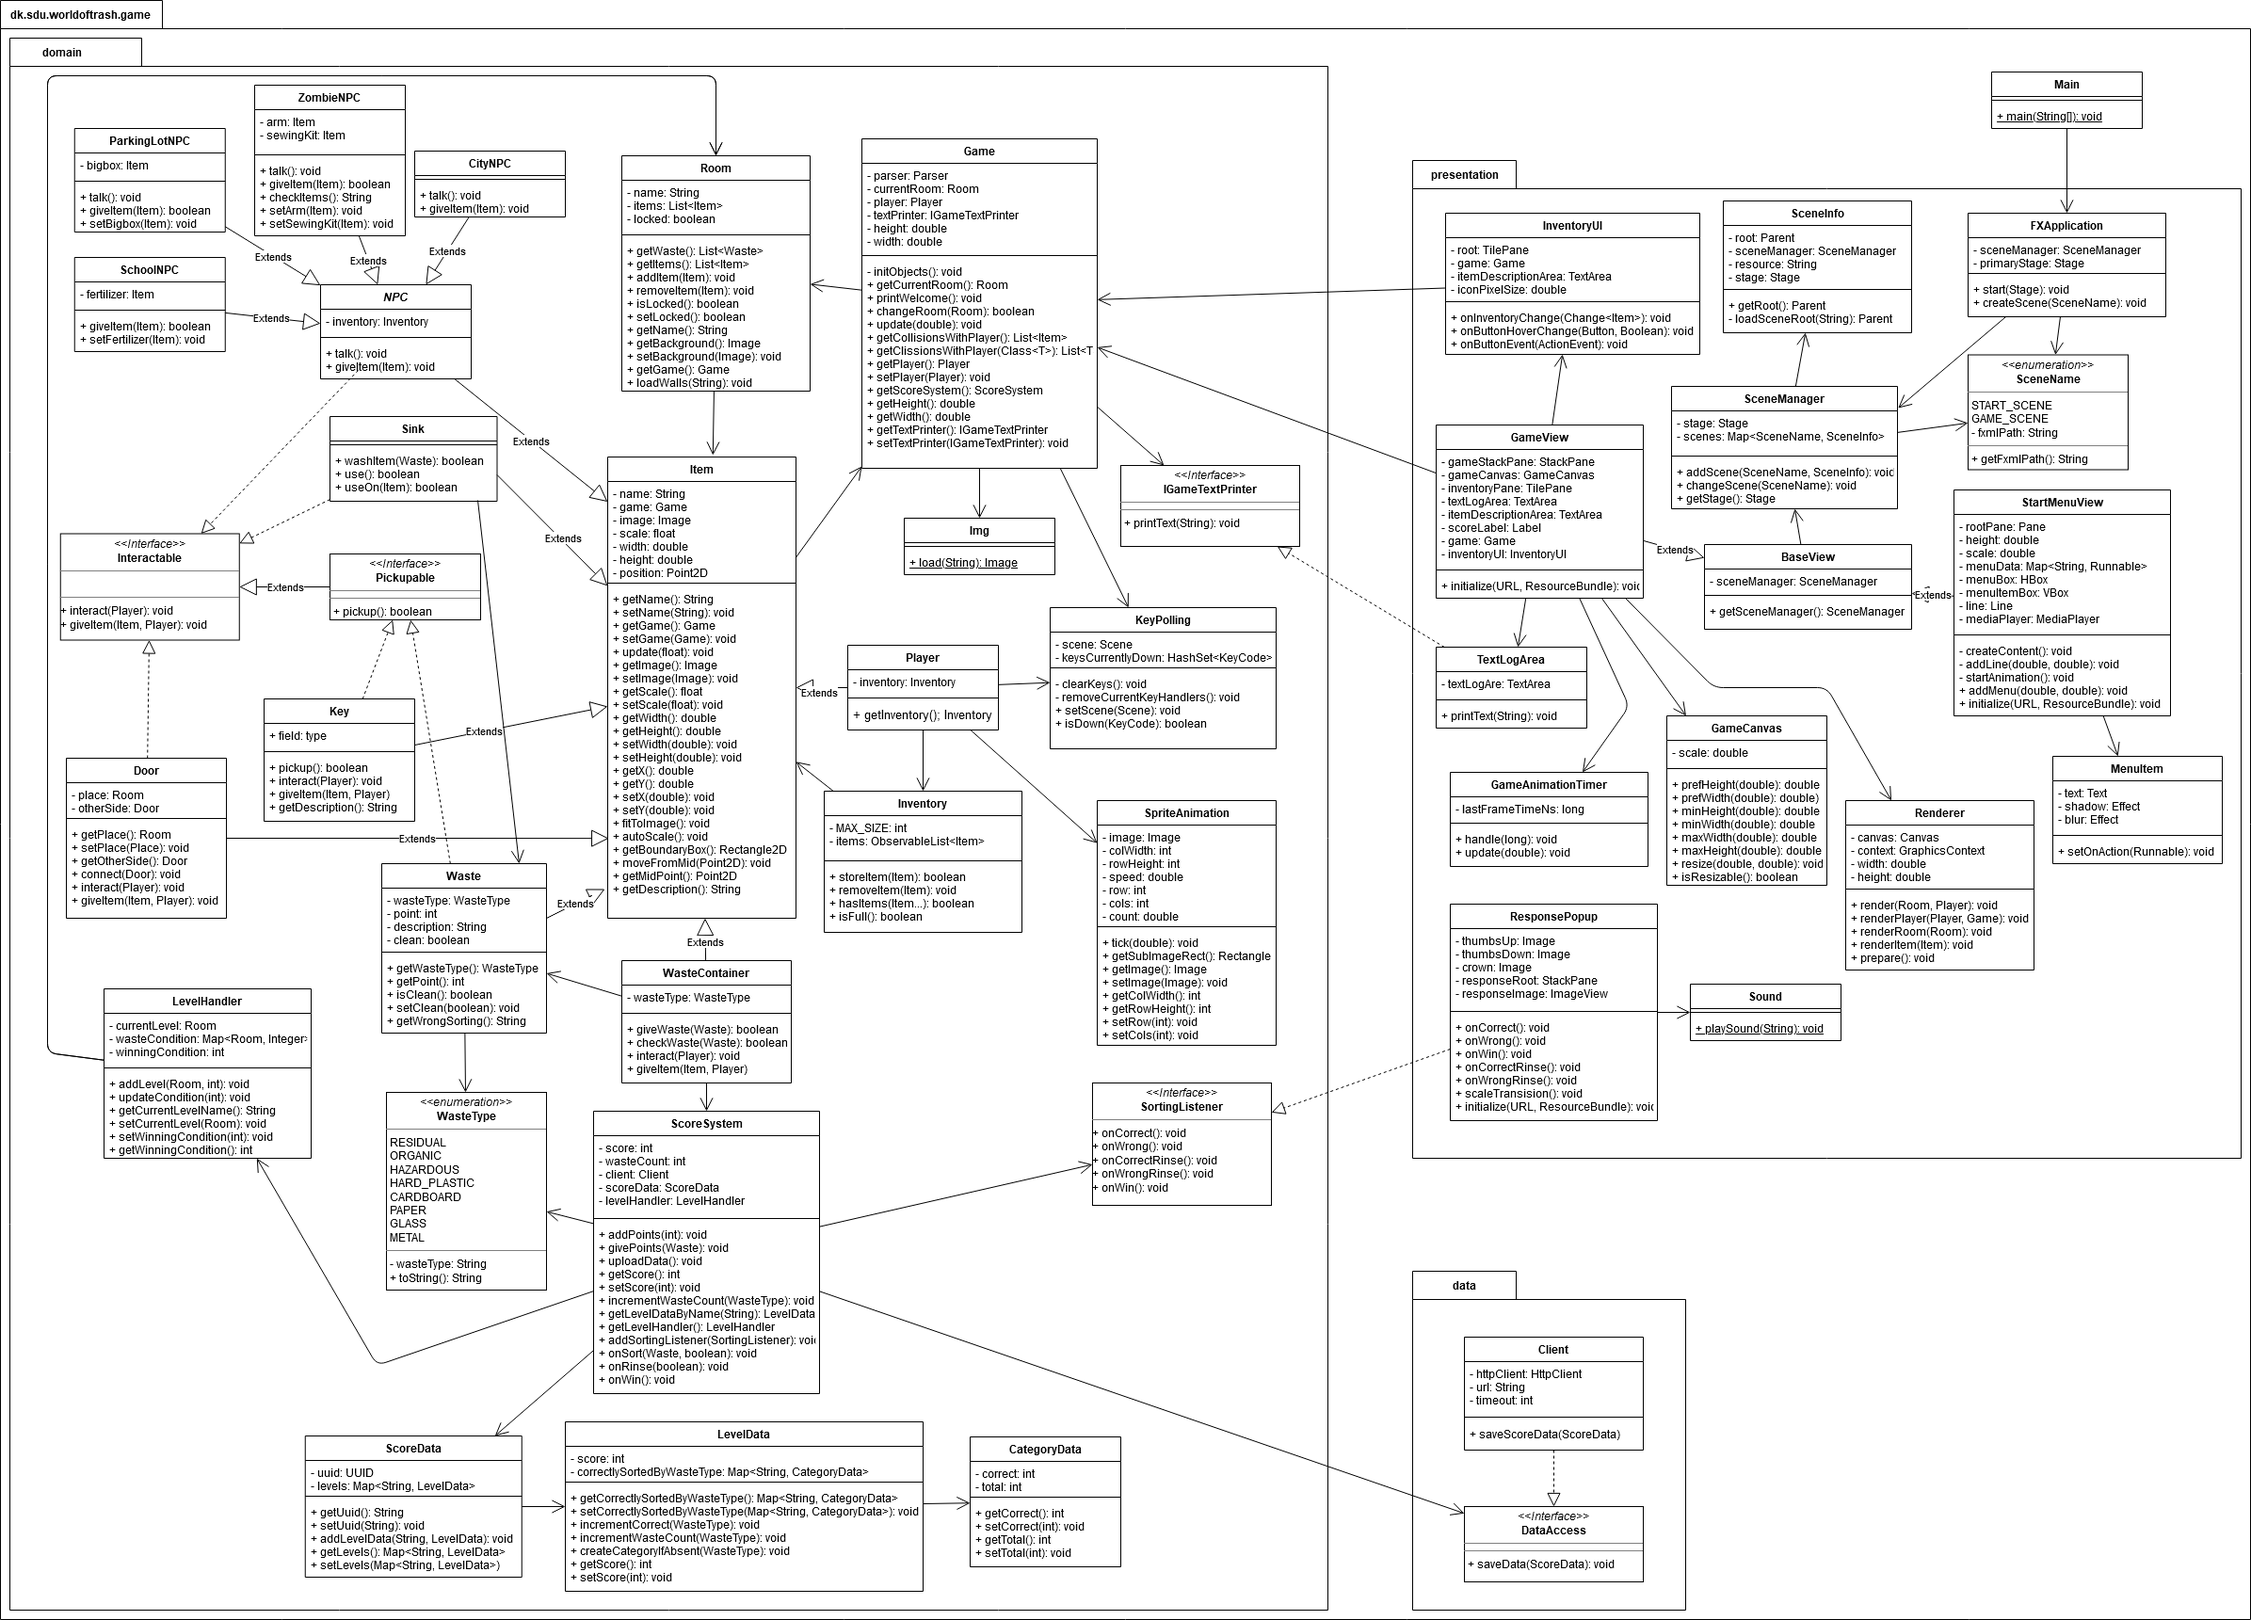
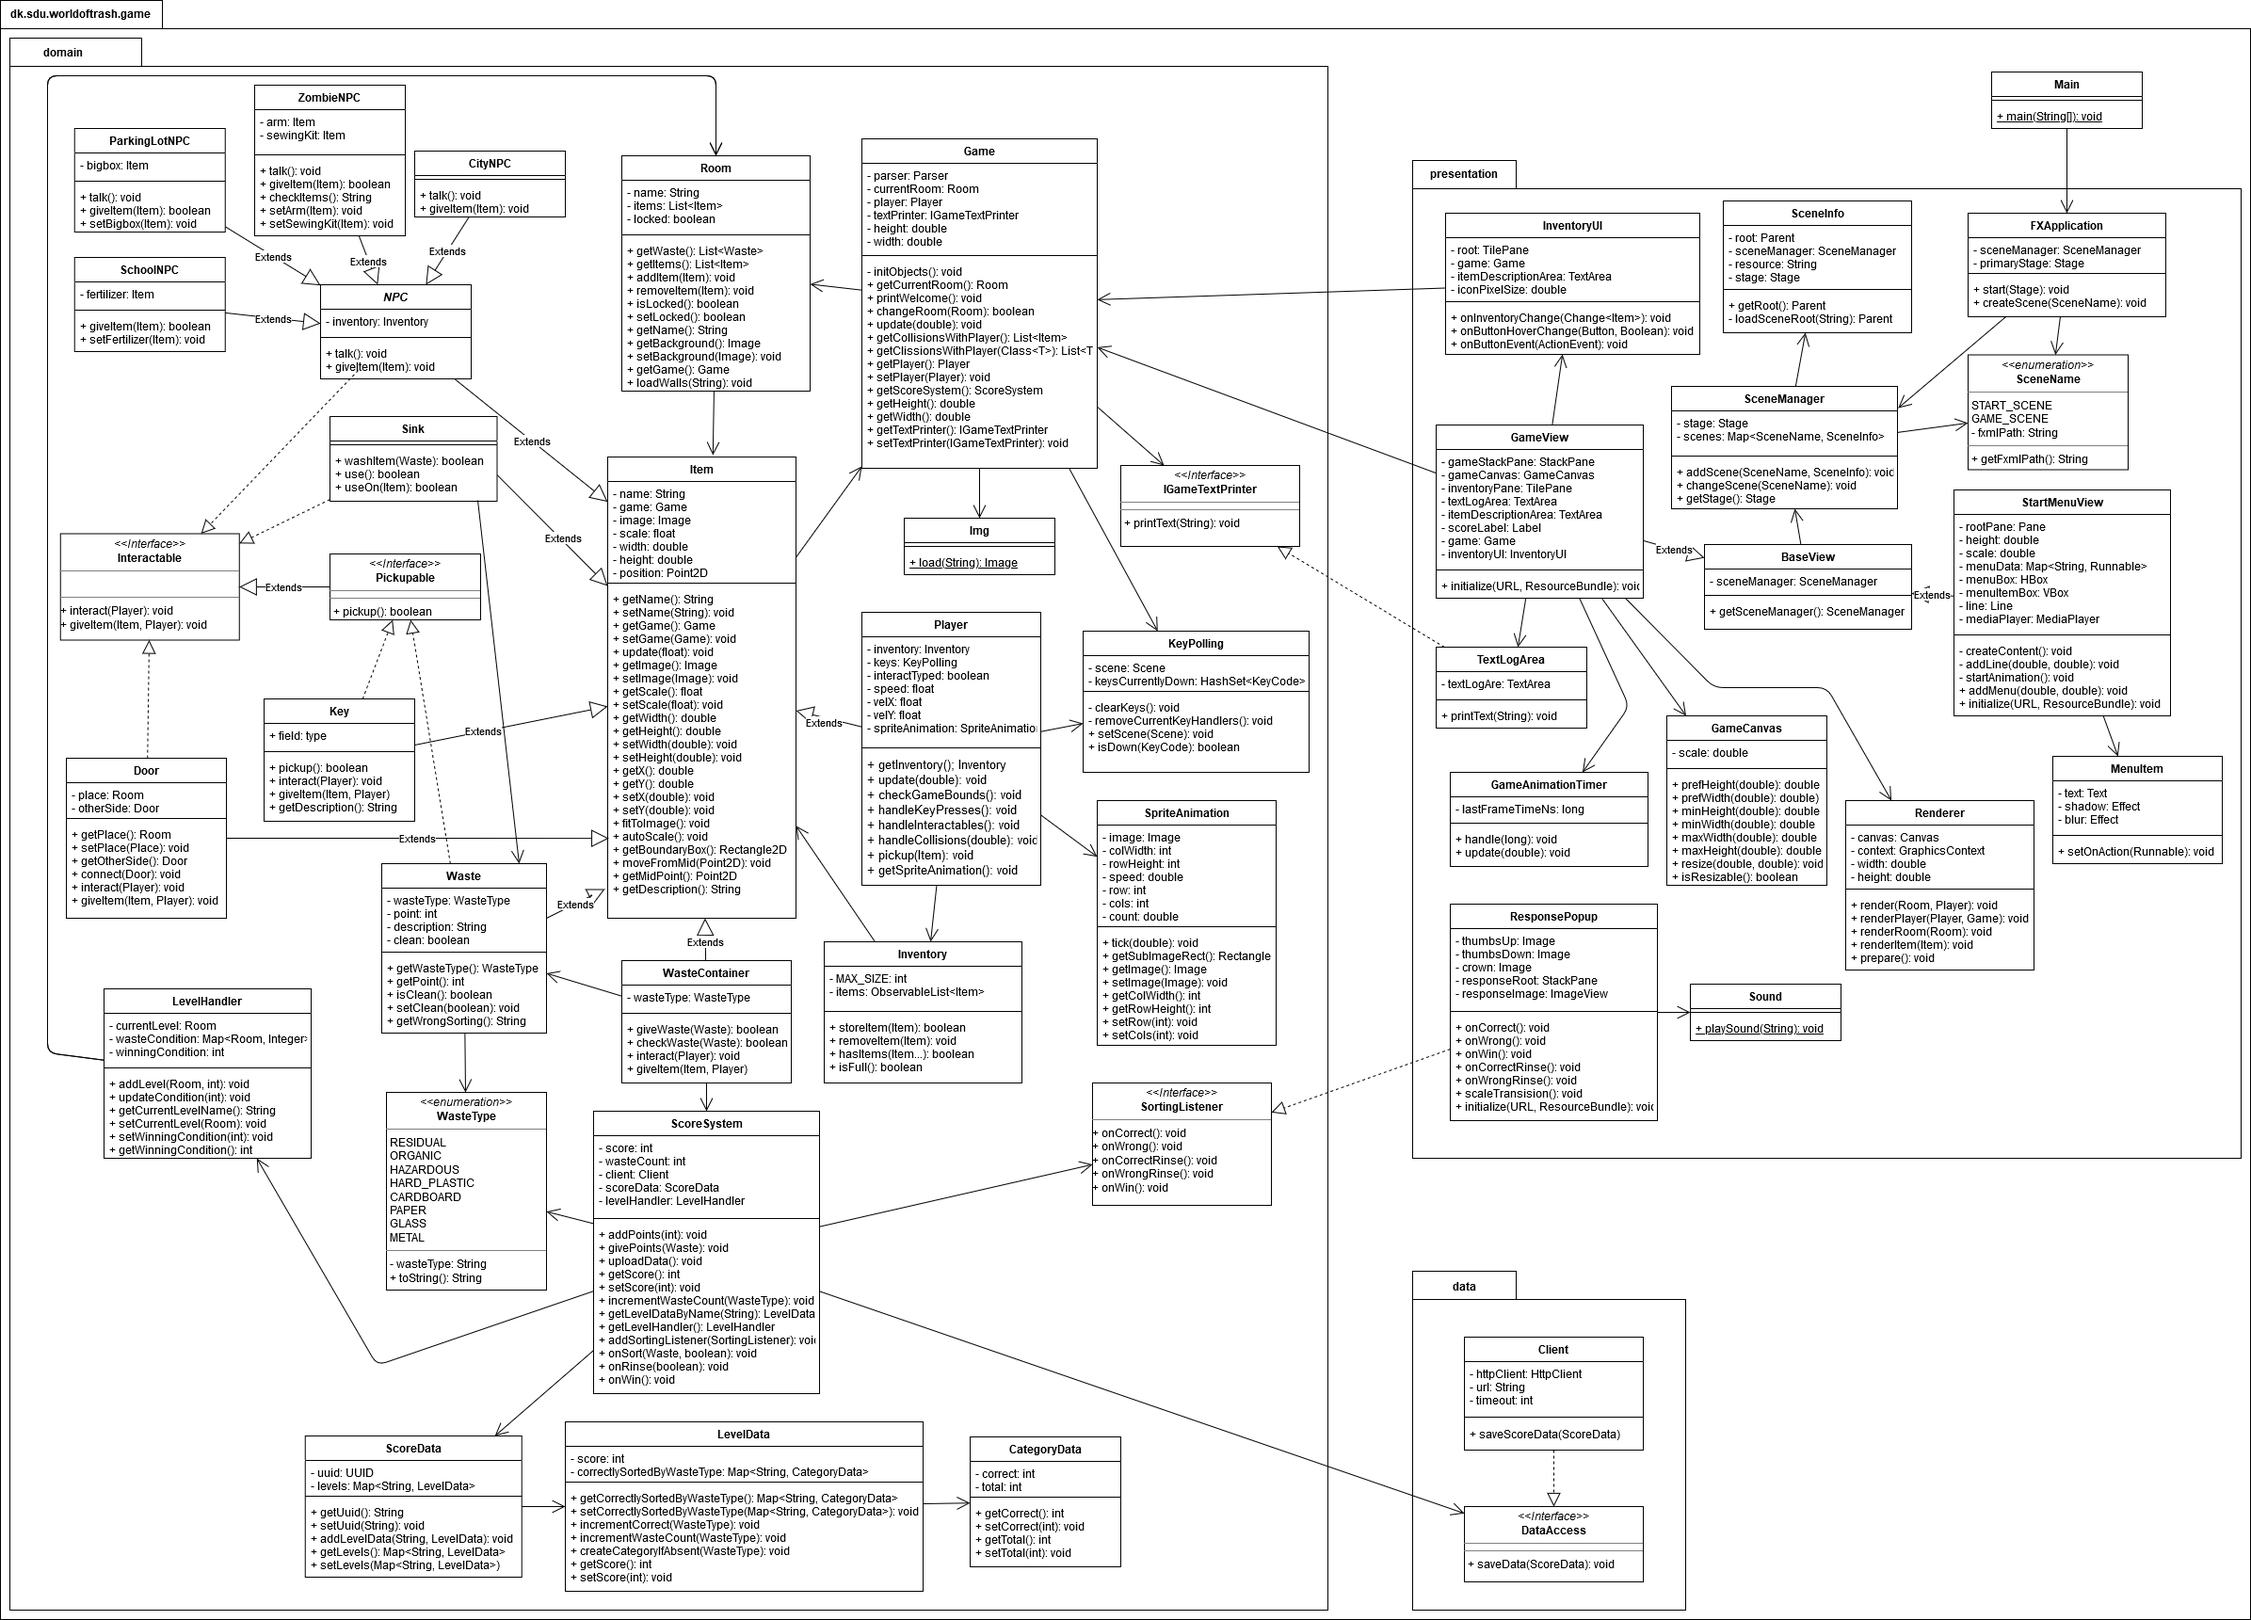
Renamed module

Changed region(s): [[0.3714, 0.3696, 0.588, 0.6775]]

diff --git a/semesterprojekt/src/main/java/dk/sdu/worldoftrash/game/domain/items/Player.java b/semesterprojekt/src/main/java/dk/sdu/worldoftrash/game/domain/items/Player.java
@@ -12,7 +12,7 @@ public class Player extends Item {
 
     private Inventory inventory;
     private KeyPolling keys;
-    private boolean interact_typed;
+    private boolean interactTyped;
 
     // Speed in pixels per second.
     private float speed = 400f;
@@ -110,14 +110,14 @@ public class Player extends Item {
 
             if (item instanceof Interactable) {
                 if (keys.isDown(KeyCode.X)) {
-                    if (!interact_typed) {
+                    if (!interactTyped) {
                         Interactable interactable = (Interactable) item;
                         interactable.interact(this);
 
-                        interact_typed = true;
+                        interactTyped = true;
                     }
                 } else {
-                    interact_typed = false;
+                    interactTyped = false;
                 }
             }
 
